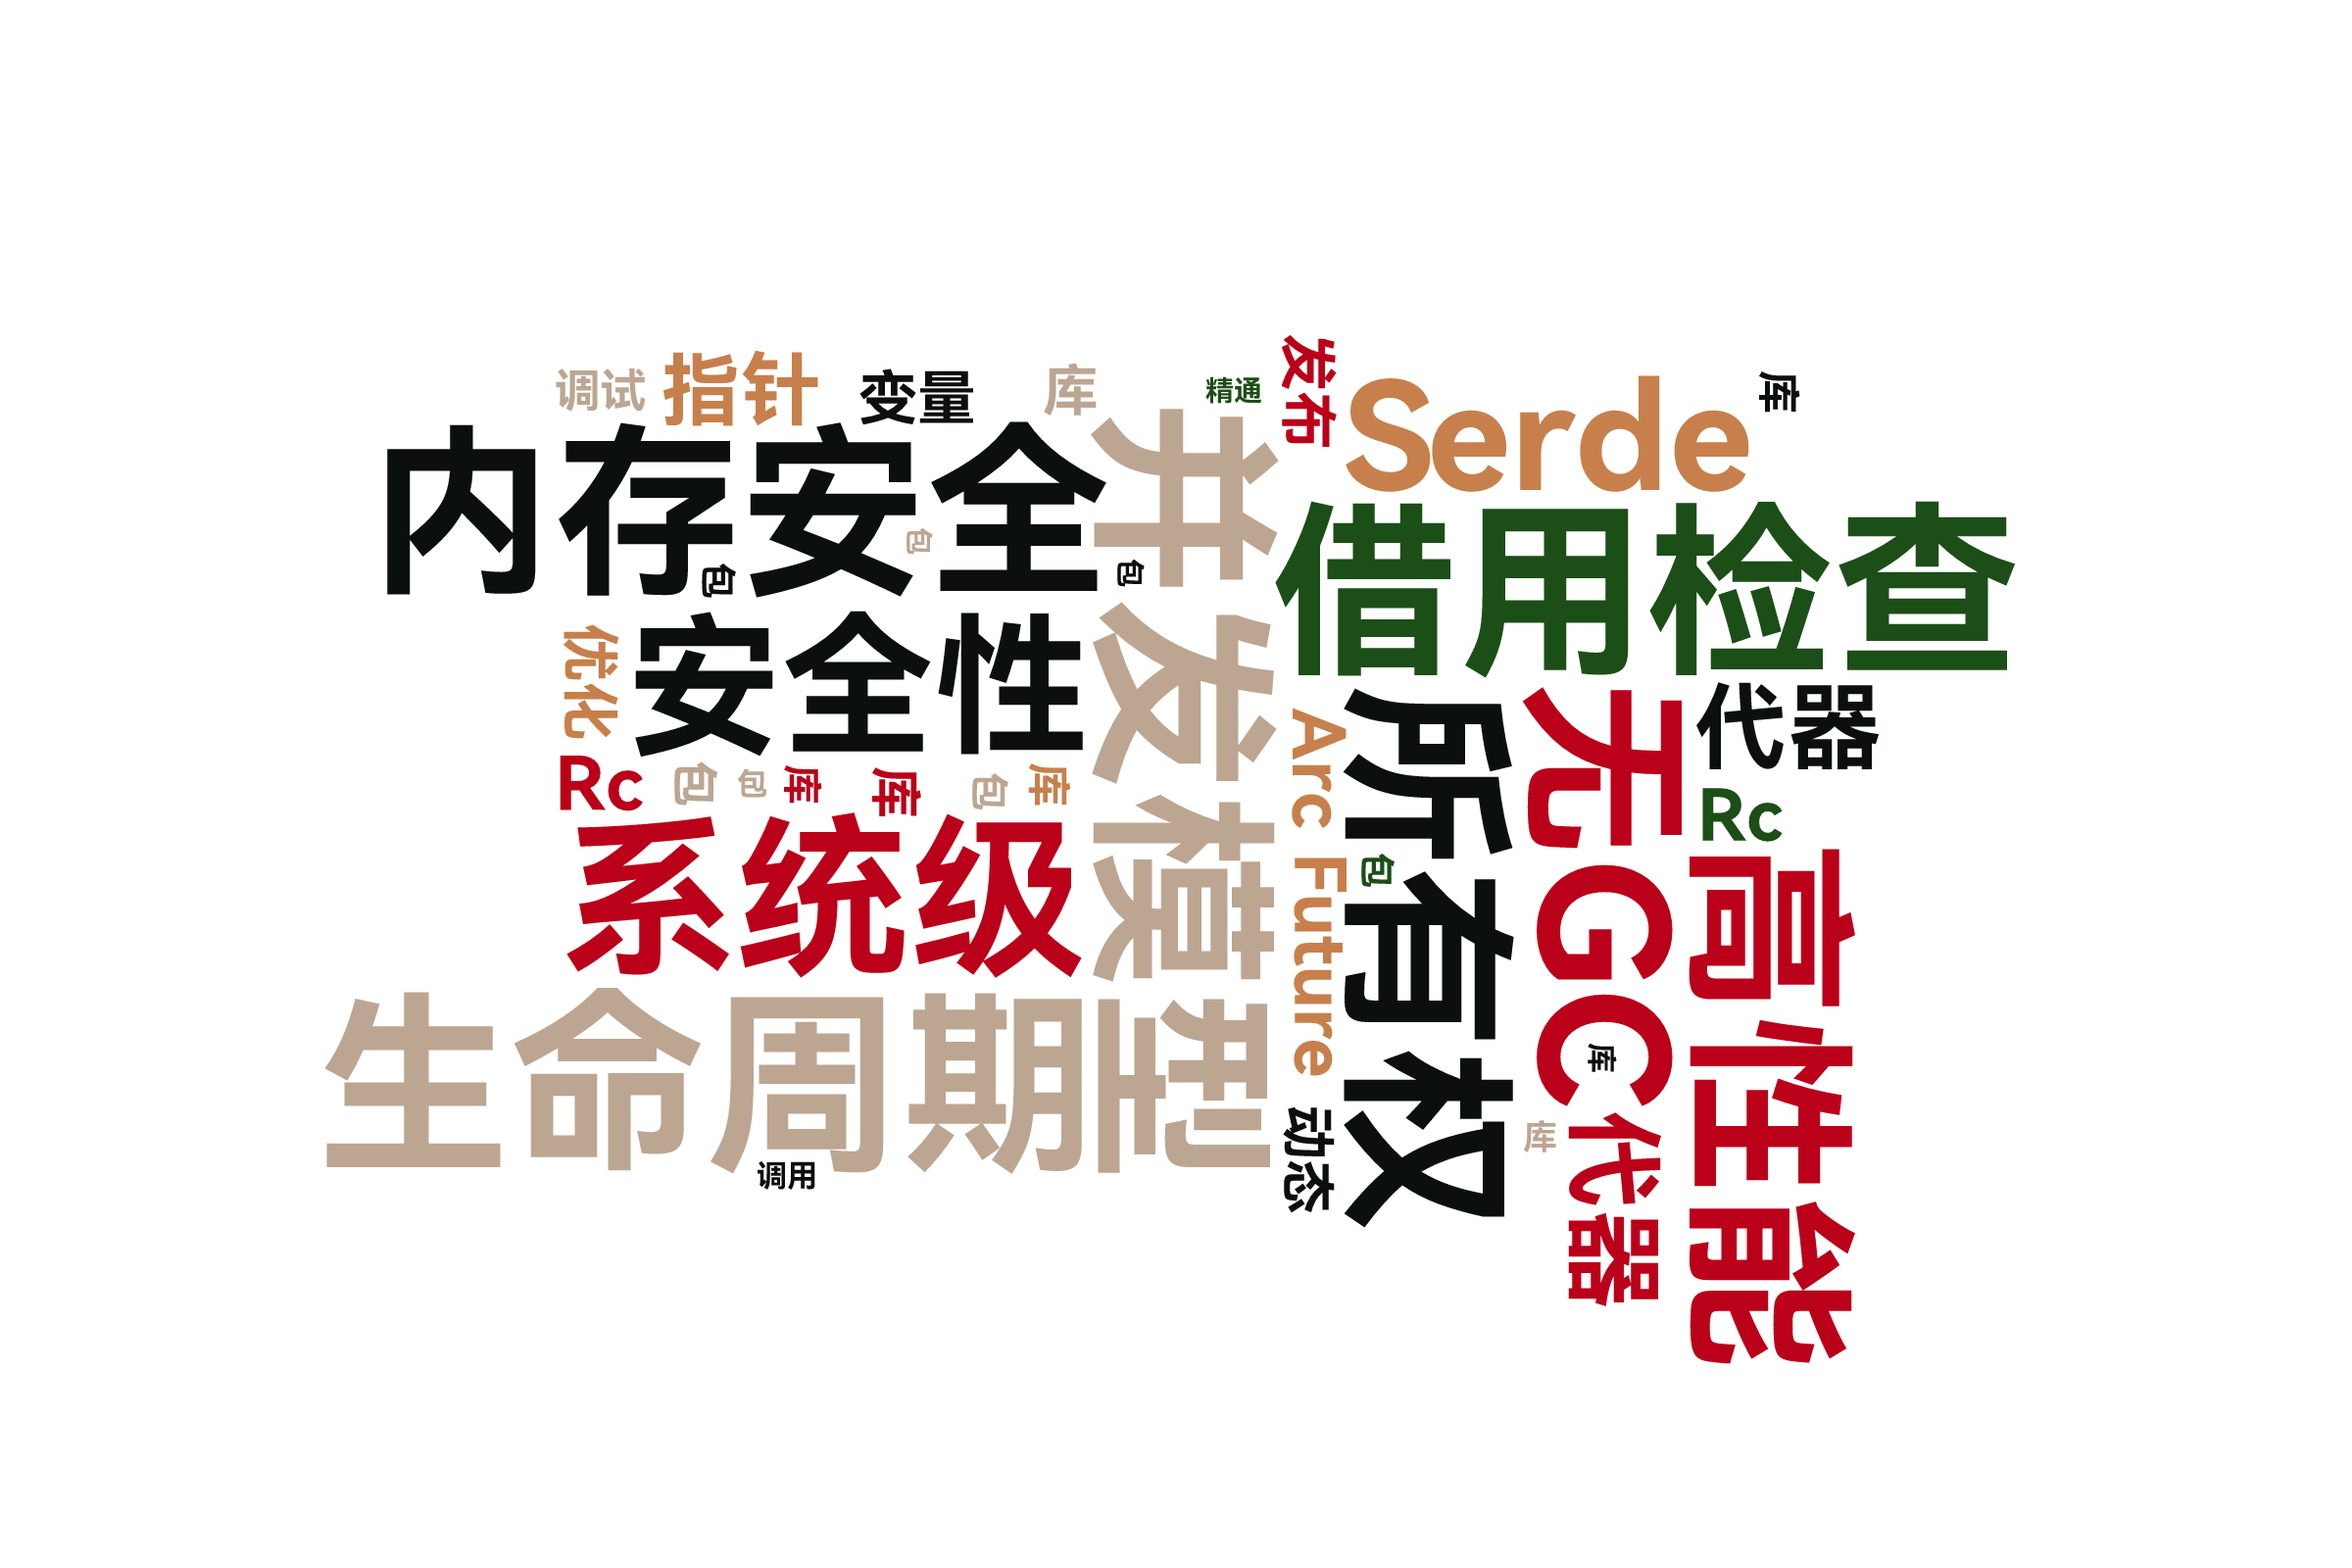
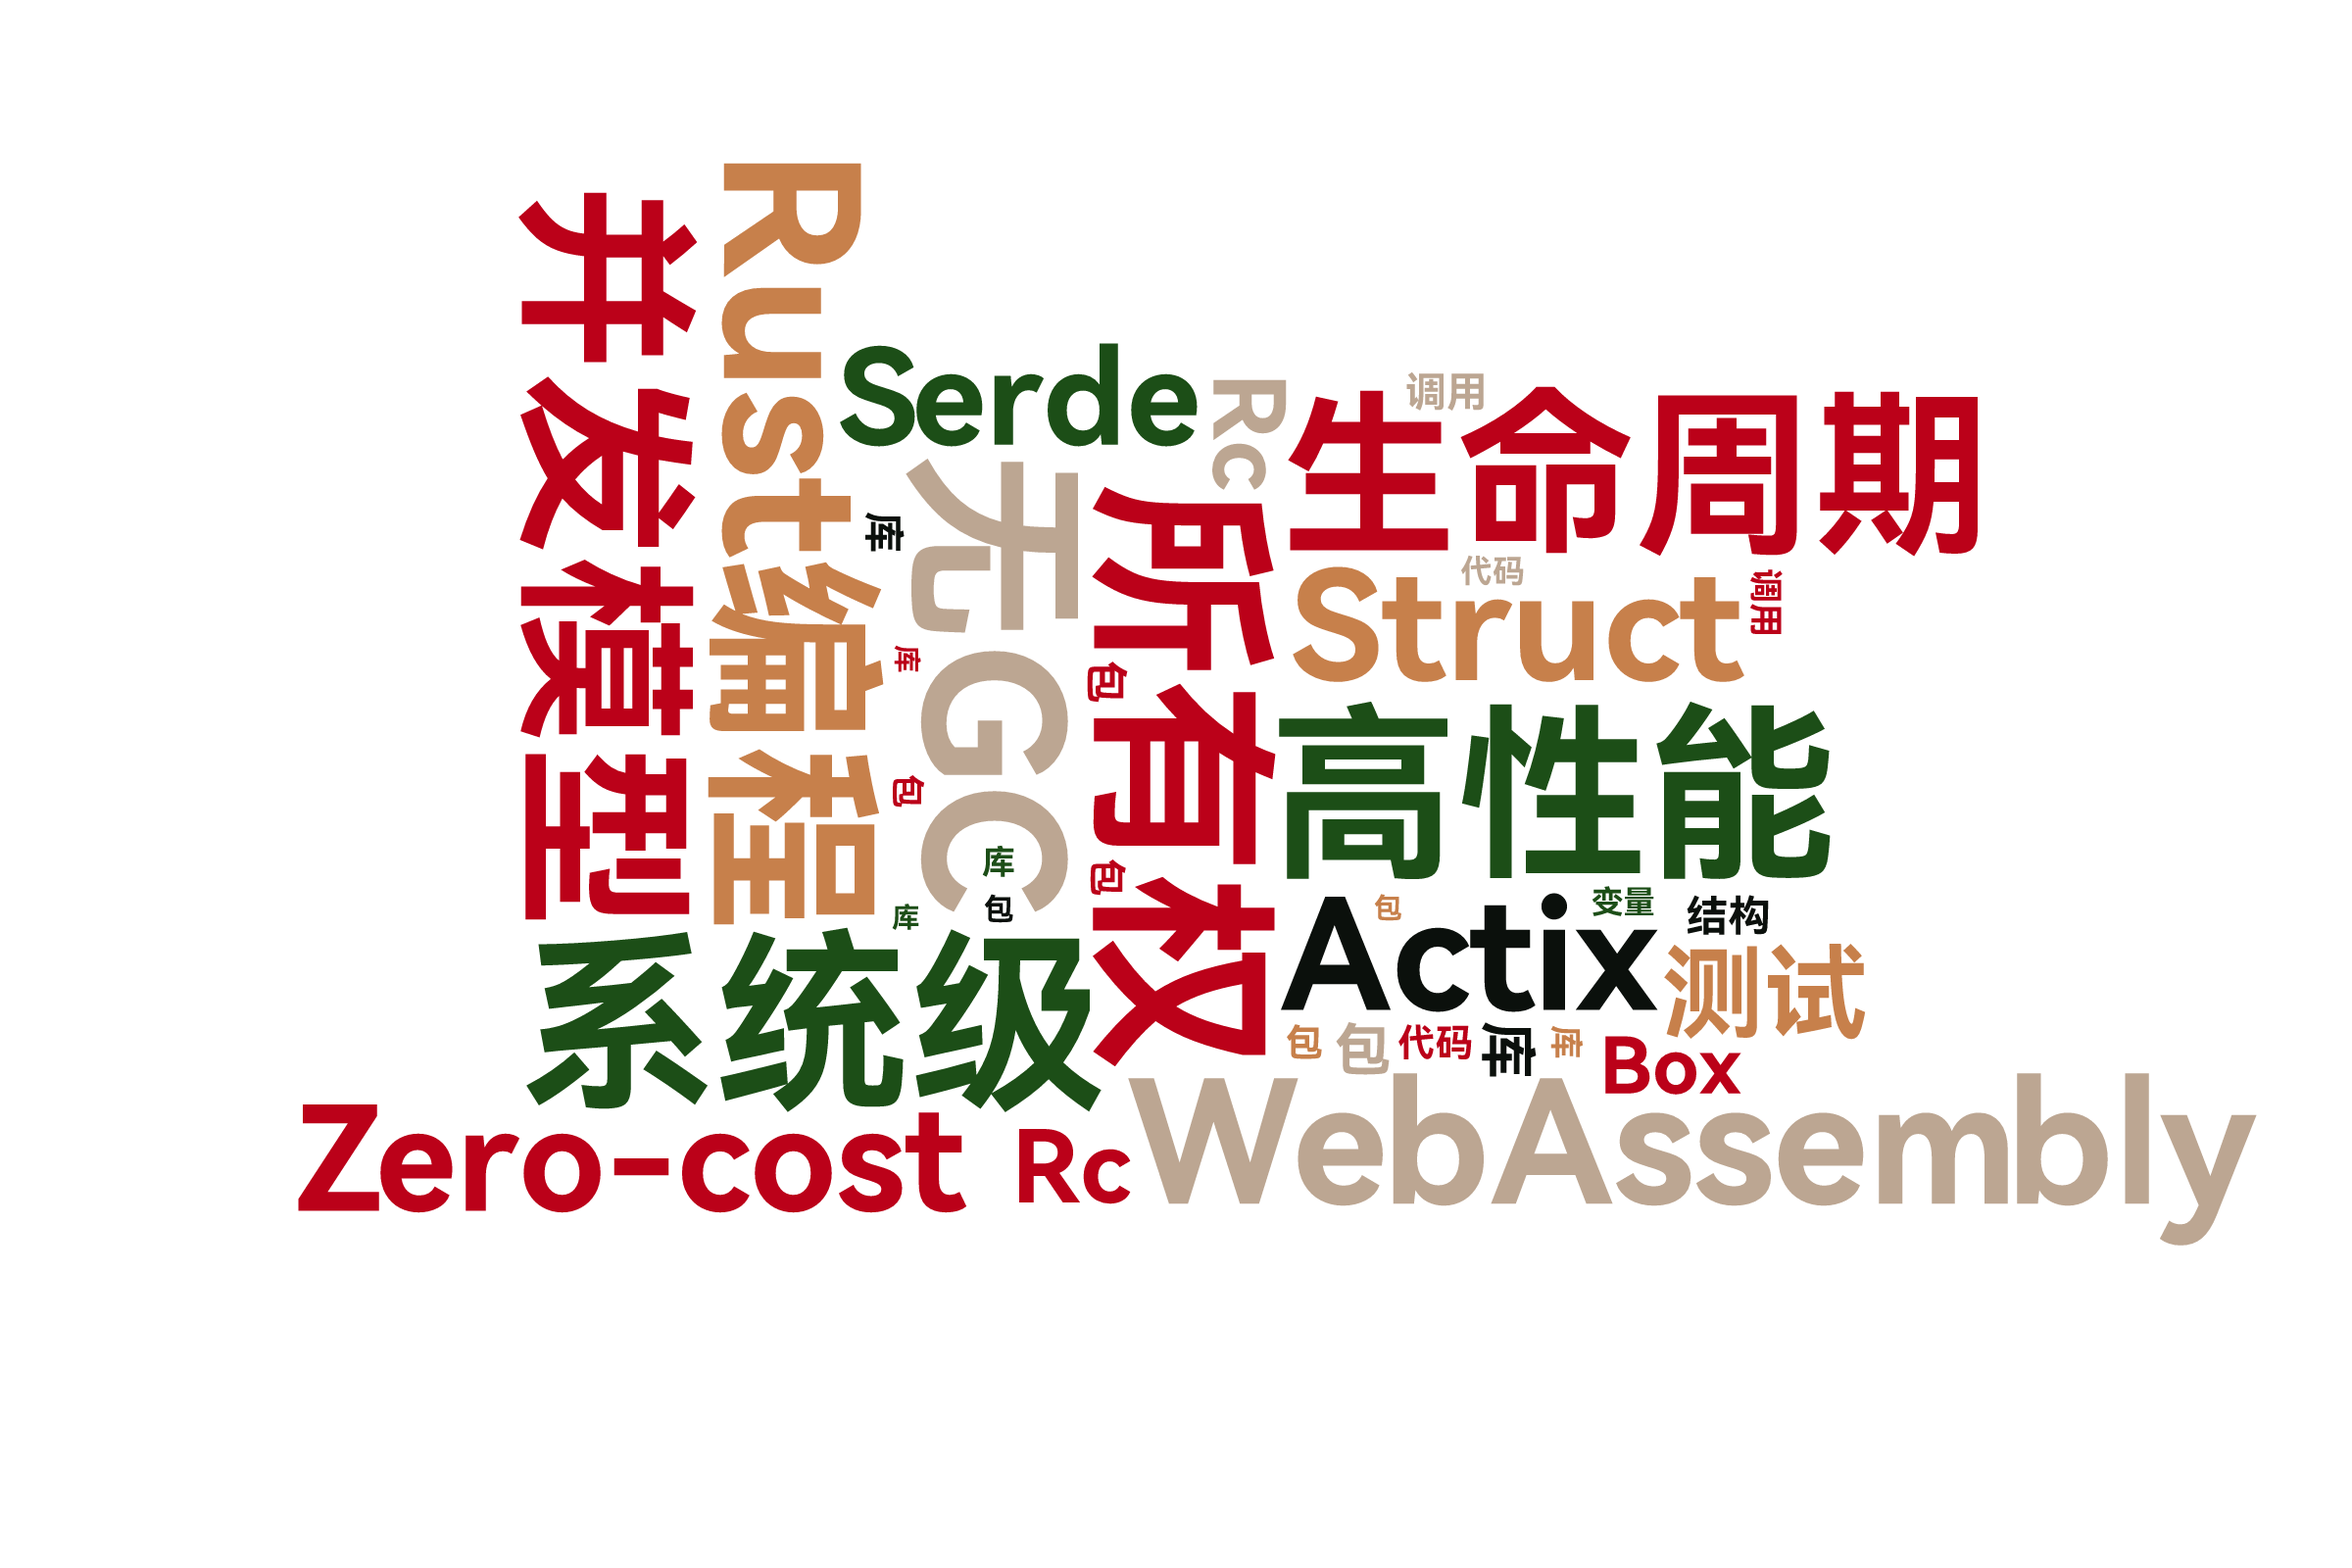
Comment out seed parameter in Chinese dense example

Changed region(s): [[0.125, 0.0938, 0.9688, 0.875]]

diff --git a/examples/chinese_dense.rs b/examples/chinese_dense.rs
@@ -39,7 +39,7 @@ fn main() -> Result<(), Box<dyn std::error::Error>> {
         .angles(vec![0.0, 90.0])
         .word_spacing(2.0)
         .font_size_range(14.0, dynamic_max_font_size)
-        .seed(2025)
+        // .seed(2025)
         .build(&words)?;
 
     let output_path = "output_chinese_dense.png";
